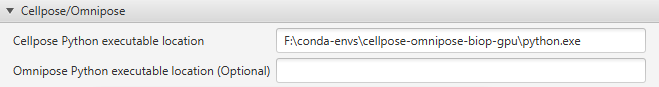
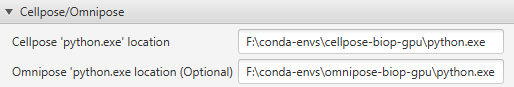
updates readme

diff --git a/README.md b/README.md
@@ -52,7 +52,7 @@ mamba env create -f cellpose-omnipose-biop-gpu.yml
 We will need this information later when configuring the QuPath Cellpose extension.
 
 ```
-mamba activa te cellpose-omnipose-biop-gpu
+mamba activate cellpose-omnipose-biop-gpu
 where python
 F:\conda-envs\cellpose-omnipose-biop-gpu\python.exe
 ```
@@ -78,7 +78,7 @@ You might then need to restart QuPath (but not your computer).
 ## QuPath Extension Cellpose/Omnipose: First time setup
 
 Go to `Edit > Preferences > Cellpose/Omnipose`
-Complete the fields with the requested information. based on the `conda` installation above, this is what it should look like:
+Complete the fields with the requested information. based on the `mamba` installation above, this is what it should look like:
 ![Cellpose setup example](files/cellpose-qupath-setup-example.png)
 > **Note**
 You have the possibility to provide **two** different environments. One for Cellpose and one for Omnipose. 
@@ -120,50 +120,10 @@ Here are some reasons we do it this way:
 3. Draw your ground truth. You can also run cellpose with `createAnnotations()` in the builder to have a starting ground truth you can manually correct. 
 4. The drawn ground truth annotations must have **no classes**.
 
-After you have saved the project, you can run the Cellpose training in the following way:
+After you have saved the project, you can run the Cellpose training template script in 
+`Extensions > Cellpose > Cellpose training script template`
 
-```groovy
-import qupath.ext.biop.cellpose.Cellpose2D
-
-def cellpose = Cellpose2D.builder("cyto") // Can choose "None" if you want to train from scratch
-                .channels("DAPI", "CY3")  // or use work with .cellposeChannels( channel1, channel2 ) and follow the cellpose way
-//                .preprocess(ImageOps.Filters.gaussianBlur(1)) // Optional preprocessing QuPath Ops 
-//                .epochs(500)             // Optional: will default to 500
-//                .learningRate(0.2)       // Optional: Will default to 0.2
-//                .batchSize(8)            // Optional: Will default to 8
-//                .minTrainMasks(5)        // Optional: Will default to 5
-//                .addParameter("save_flows")      // Any parameter from cellpose not available in the builder. See https://cellpose.readthedocs.io/en/latest/command.html
-//                .addParameter("anisotropy", "3") // Any parameter from cellpose not available in the builder. See https://cellpose.readthedocs.io/en/latest/command.html
-//                .modelDirectory( new File("My/folder/for/models")) // Optional place to store resulting model. Will default to QuPath project root, and make a 'models' folder
-//                .saveBuilder("My Builder") // Optional: Will save a builder json file that can be reloaded with Cellpose2D.builder(File builderFile)
-                .build()
-
-// Once ready for training you can call the train() method
-// train() will:
-// 1. Go through the current project and save all "Training" and "Validation" regions into a temp folder (inside the current project)
-// 2. Run the cellpose training via command line
-// 3. Recover the model file after training, and copy it to where you defined in the builder, returning the reference to it
-// 4. If it detects the run-cellpose-qc.py file in your QuPath Extensions Folder, it will run validation for this model
-
-def resultModel = cellpose.train()
-
-// Pick up results to see how the training was performed
-println "Model Saved under "
-println resultModel.getAbsolutePath().toString()
-
-// You can get a ResultsTable of the training. 
-def results = cellpose.getTrainingResults()
-results.show("Training Results")
-
-// You can get a results table with the QC results to visualize 
-def qcResults = cellpose.getQCResults()
-qcResults.show("QC Results")
-
-
-// Finally you have access to a very simple graph 
-cellpose.showTrainingGraph()
-```
-
+Or you can download [Cellpose_training_template.groovy](src/main/resources/scripts/Cellpose_training_template.groovy) from this repo and run it from the script editor.
 
 ### More training options
 [All options in Cellpose](https://github.com/MouseLand/cellpose/blob/45f1a3c640efb8ca7d252712620af6f58d024c55/cellpose/__main__.py#L36) 
@@ -195,6 +155,13 @@ our current guidelines:
 
 Running Cellpose is done via a script and is very similar to the excellent [QuPath StarDist Extension](https://github.com/qupath/qupath-extension-stardist)
 
+You can find a template in QuPath in
+
+`Extensions > Cellpose > Cellpose training script template`
+
+Or you can download the [Cellpose_detection_template.groovy](src/main/resources/scripts/Cellpose_detection_template.groovy) script from this repo and place it in the script editor
+
+
 All builder options that are implemented are [in the Javadoc](https://biop.github.io/qupath-extension-cellpose/)
 
 ### Breaking changes after QuPath 0.4.0
@@ -202,48 +169,9 @@ In order to make the extension more flexible and less dependent on the builder, 
 For this to work, some elements that were "hard coded" on the builder have been removed, so you will get some errors. For example: `excludeEdges()` and `clusterDBSCAN()` no longer exist. 
 You can use `addParameter("exclude_on_edges")`, and `addParameter("cluster")` instead.
 
-```groovy
-import qupath.ext.biop.cellpose.Cellpose2D
-// For all the options from cellpose: https://cellpose.readthedocs.io/en/latest/cli.html
-// For all the options from omnipose: https://omnipose.readthedocs.io/command.html#all-options
-
-// Specify the model name (cyto, nuc, cyto2, omni_bact or a path to your custom model)
-def pathModel = 'cyto2'
-def cellpose = Cellpose2D.builder( pathModel )
-        .pixelSize( 0.5 )                  // Resolution for detection in um
-        .channels( 'DAPI' )	               // Select detection channel(s)
-//        .preprocess( ImageOps.Filters.median(1) )                // List of preprocessing ImageOps to run on the images before exporting them
-//        .normalizePercentilesGlobal(0.1, 99.8, 10) // Convenience global percentile normalization. arguments are percentileMin, percentileMax, dowsample.
-//        .tileSize(1024)                  // If your GPU can take it, make larger tiles to process fewer of them. Useful for Omnipose
-//        .cellposeChannels(1,2)           // Overwrites the logic of this plugin with these two values. These will be sent directly to --chan and --chan2
-//        .cellprobThreshold(0.0)          // Threshold for the mask detection, defaults to 0.0
-//        .flowThreshold(0.4)              // Threshold for the flows, defaults to 0.4 
-//        .diameter(15)                    // Median object diameter. Set to 0.0 for the `bact_omni` model or for automatic computation
-//        .useOmnipose()                   // Use the omnipose instead
-//        .addParameter("cluster")         // Any parameter from cellpose or omnipose not available in the builder. 
-//        .addParameter("save_flows")      // Any parameter from cellpose or omnipose not available in the builder.
-//        .addParameter("anisotropy", "3") // Any parameter from cellpose or omnipose not available in the builder.
-//        .cellExpansion(5.0)              // Approximate cells based upon nucleus expansion
-//        .cellConstrainScale(1.5)         // Constrain cell expansion using nucleus size
-//        .classify("My Detections")       // PathClass to give newly created objects
-//        .measureShape()                  // Add shape measurements
-//        .measureIntensity()              // Add cell measurements (in all compartments)  
-//        .createAnnotations()             // Make annotations instead of detections. This ignores cellExpansion
-//        .simplify(0)                     // Simplification 1.6 by default, set to 0 to get the cellpose masks as precisely as possible
-        .build()
-
-// Run detection for the selected objects
-def imageData = getCurrentImageData()
-def pathObjects = getSelectedObjects()
-if (pathObjects.isEmpty()) {
-    Dialogs.showErrorMessage("Cellpose", "Please select a parent object!")
-    return
-}
-cellpose.detectObjects(imageData, pathObjects)
-println 'Done!'
-```
-
 # Citing
+
+Please cite this extension by linking it to this GitHub or to the release you used, and feel free to give us a star ⭐
 
 If you use this extension, you should cite the following publications
 
@@ -255,6 +183,7 @@ Cutler, K.J., Stringer, C., Lo, T.W. et al. **Omnipose: a high-precision morphol
 
 Bankhead, P. et al. **QuPath: Open source software for digital pathology image analysis**. Scientific Reports (2017).
 https://doi.org/10.1038/s41598-017-17204-5
+
 
 # Building
 
